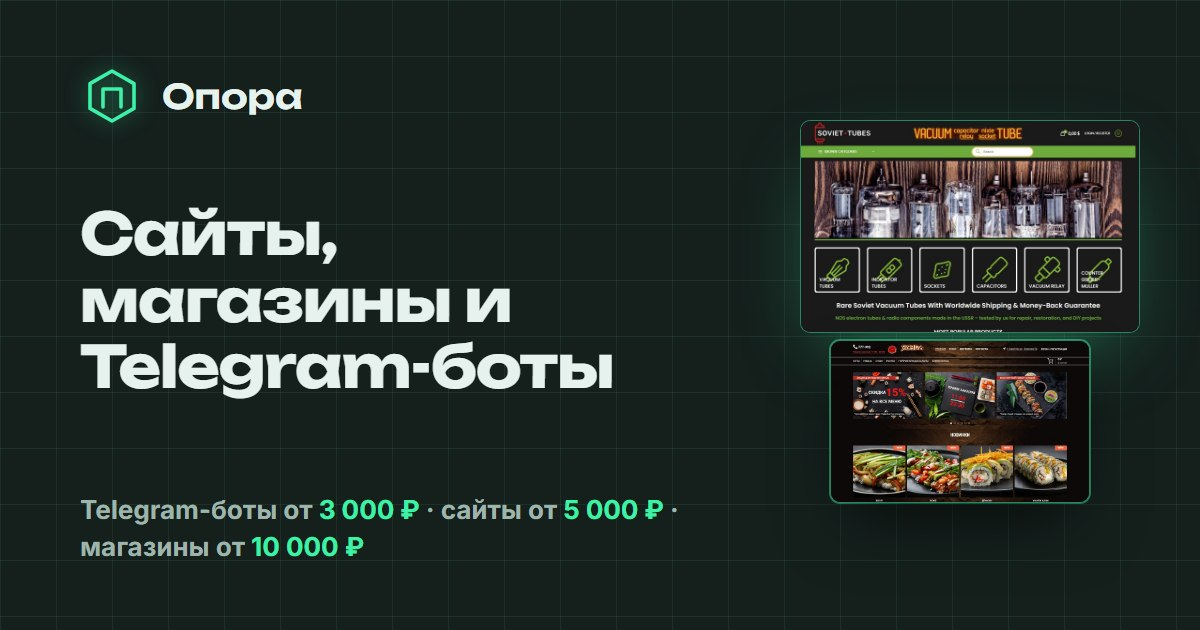
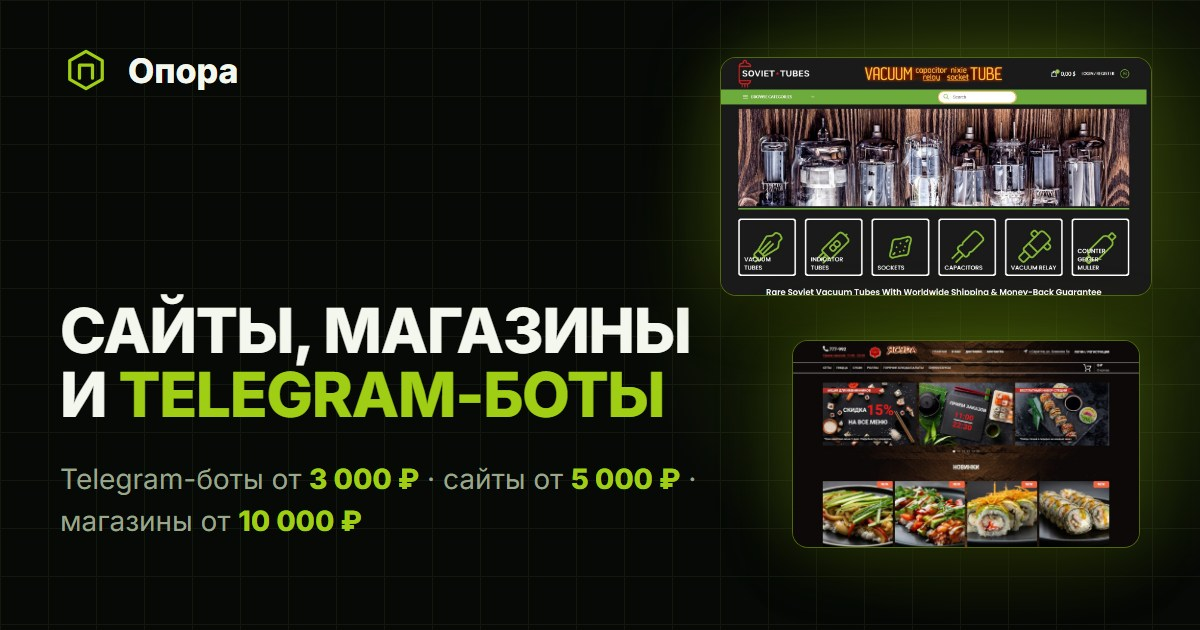
feat: превью для соцсетей в лаймовой палитре, обновлены правила бренда

diff --git a/docs/brand-guidelines.md b/docs/brand-guidelines.md
@@ -6,47 +6,58 @@
 **Миссия одной строкой:** делать цифровые инструменты, на которые малый бизнес может опереться.
 
 ## Голос
-Спокойный, ясный, уверенный. Говорим как специалист, который объясняет простыми словами.
+Спокойный, ясный, уверенный. Объясняет простыми словами, как специалист.
 
 Три принципа тона:
-1. **Конкретика вместо обещаний.** Называем цены, сроки, условия. Не обещаем рост продаж и заявок.
+1. **Конкретика вместо обещаний.** Называются цены, сроки, условия. Рост продаж и заявок не обещается.
 2. **Простыми словами.** Клиенту не нужно знать терминов. Технические слова только если без них нельзя.
-3. **Шаги процесса пишем именным стилем.** «Проведение тестов. Внесение правок в процессе создания.» В остальных текстах допустим первое лицо: «беру на себя», «показываю по ходу».
+3. **Повествование от 3-го лица.** Без «я», «беру», «делаю», «называю». Вместо них нейтральные формы: «цена называется до начала работы», «изменения фиксируются в договоре». Шаги процесса пишутся именным стилем: «Проведение тестов. Внесение правок в процессе создания.» К клиенту допустимо обращение на «вы» и призывы вроде «Опишите задачу своими словами».
 
-Не используем: «лучший», «гарантируем результат», «приводят заявки», выдуманные цифры, отзывы, годы опыта, «команда».
+Не используется: «лучший», «гарантируем результат», «приводят заявки», выдуманные цифры, отзывы, годы опыта, «команда».
 
 ## Факты, которые нельзя менять без решения автора
 - Название: Опора.
 - Цены «от»: Telegram-бот 3 000 ₽, лендинг или сайт 5 000 ₽, интернет-магазин 10 000 ₽.
-- Сроки: лендинг до 5 дней, бот 1–3 дня (с правками и запуском), магазин по задаче.
+- Сроки: лендинг до 5 дней, бот 1–3 дня (с правками и запуском), многостраничные сайты и магазин по задаче.
 - Оплата: предоплата (50/50). Правки по согласованному заданию входят в цену.
 - Контакты: Telegram @mo_on_rise и MAX. Номер телефона на сайте не публикуется.
+- Подзаголовок проектов: «Крупные проекты от согласования до запуска». Описание проекта: «Для кого: …» и с новой строки «Задача: …».
 
 ## Палитра (токены в `index.html`, блок `:root`)
+Фирменный акцент лайм `#a0ce14`. Тёмный блок первого экрана `#060906`.
+
 | Токен | Светлая | Тёмная | Назначение |
 |---|---|---|---|
-| `--bg` | #e8ece9 | #15201d | фон |
-| `--paper` | #f6f8f7 | #1d2b27 | карточки |
-| `--text` | #0f1f19 | #e6f2ed | основной текст |
-| `--muted` | #45564e | #9fb4aa | вторичный текст |
-| `--line` | #bfcac4 | #2f4139 | границы |
-| `--accent` | #00794f | #3df2a8 | единственный акцент |
-| `--on-accent` | #ffffff | #04281b | текст на акценте |
+| `--lime` | #a0ce14 | #a0ce14 | акцент: кнопки, значки, заливки |
+| `--lime-hi` | #b8e626 | #b8e626 | светлая ступень акцента (градиенты, наведение) |
+| `--on-lime` | #0b0f06 | #0b0f06 | текст на лайме |
+| `--hero` | #060906 | #060906 | первый экран, шаги, финальный призыв, подвал |
+| `--bg` | #ffffff | #080b07 | фон |
+| `--alt` | #f4f6f0 | #0d120a | чередующиеся секции |
+| `--card` | #f3f5ef | #121910 | карточки |
+| `--text` | #0c100a | #eef3e8 | основной текст |
+| `--muted` | #566052 | #a5b09e | вторичный текст |
+| `--line` | #e1e6d9 | #222b1d | границы |
+| `--accent-text` | #4f6f00 | #a0ce14 | акцентный текст на фоне страницы |
 
-Правила: один акцент, нейтральные фоны (не белый и не чёрный). Светлый акцент не светлить: запас контраста минимальный (≈4,6:1).
+Правила: лайм используется для кнопок, значков и заливок. Акцентный **текст** на светлом фоне берётся только из `--accent-text` (#4f6f00): сам лайм на белом даёт слабый контраст. Текст на лайме всегда `--on-lime`. Янтарь (`--amber`, #fdb52a) только для мелких значков-звёздочек.
 
 ## Типографика
-- Заголовки и цены: Unbounded 600–700.
-- Текст и интерфейс: Inter 400, 500, 700, 800.
+- Заголовки: Inter 800, на первом экране заглавными, плотный межбуквенный интервал.
+- Текст и интерфейс: Inter 400, 500, 700.
 - Минимальный размер текста 12 px, основной 16–17,6 px, межстрочный 1,65.
 
 ## Логотип
-Знак: шестигранник с буквой «П» внутри, линейный, толщина линии 1,8–2,2 при сетке 32 px. Рядом слово «Опора» шрифтом Unbounded 600.
-- Цвет знака: акцент темы (`--accent`).
+Знак: шестигранник с буквой «П» внутри, линейный, толщина линии 2 при сетке 32 px. Рядом слово «Опора» шрифтом Inter 800.
+- Цвет знака: лайм `#a0ce14`.
 - Минимальный размер знака: 24 px.
 - Свободное поле вокруг: высота знака.
-- Иконка вкладки: знак белым на плашке акцента (`favicon.svg`).
+- Иконка вкладки: лаймовый знак на плашке `#060906` (`favicon.svg`).
 - Не поворачивать, не заливать, не менять пропорции, не ставить на пёстрый фон.
 
+## Обложки и превью
+Источник: `projects/ads/tools/cover.html`. Режим выбирается хэшем адреса: `#bot-avito`, `#site-kwork`, `#shop-avito`, `#og` и т.д. Размеры: Avito 1200×900, Kwork 1320×880, превью для соцсетей (`img/og.jpg`) 1200×630. Рендер через Edge headless (`--screenshot`), затем сохранение в JPEG.
+Фон `#060906` с сеткой и лаймовым свечением, заголовок заглавными, акцентное слово лаймом, внизу «Работа по договору».
+
 ## Единообразие контактов
-Иконки Telegram и MAX одинакового вида в шапке, на первом экране, в липкой кнопке и подвале. Подписи для читалок экрана: «Написать в Telegram», «Написать в MAX».
+Иконки Telegram и MAX одинакового вида в шапке, на первом экране, в липкой кнопке и подвале (колонка «Контакты»). Подписи для читалок экрана: «Написать в Telegram», «Написать в MAX».
